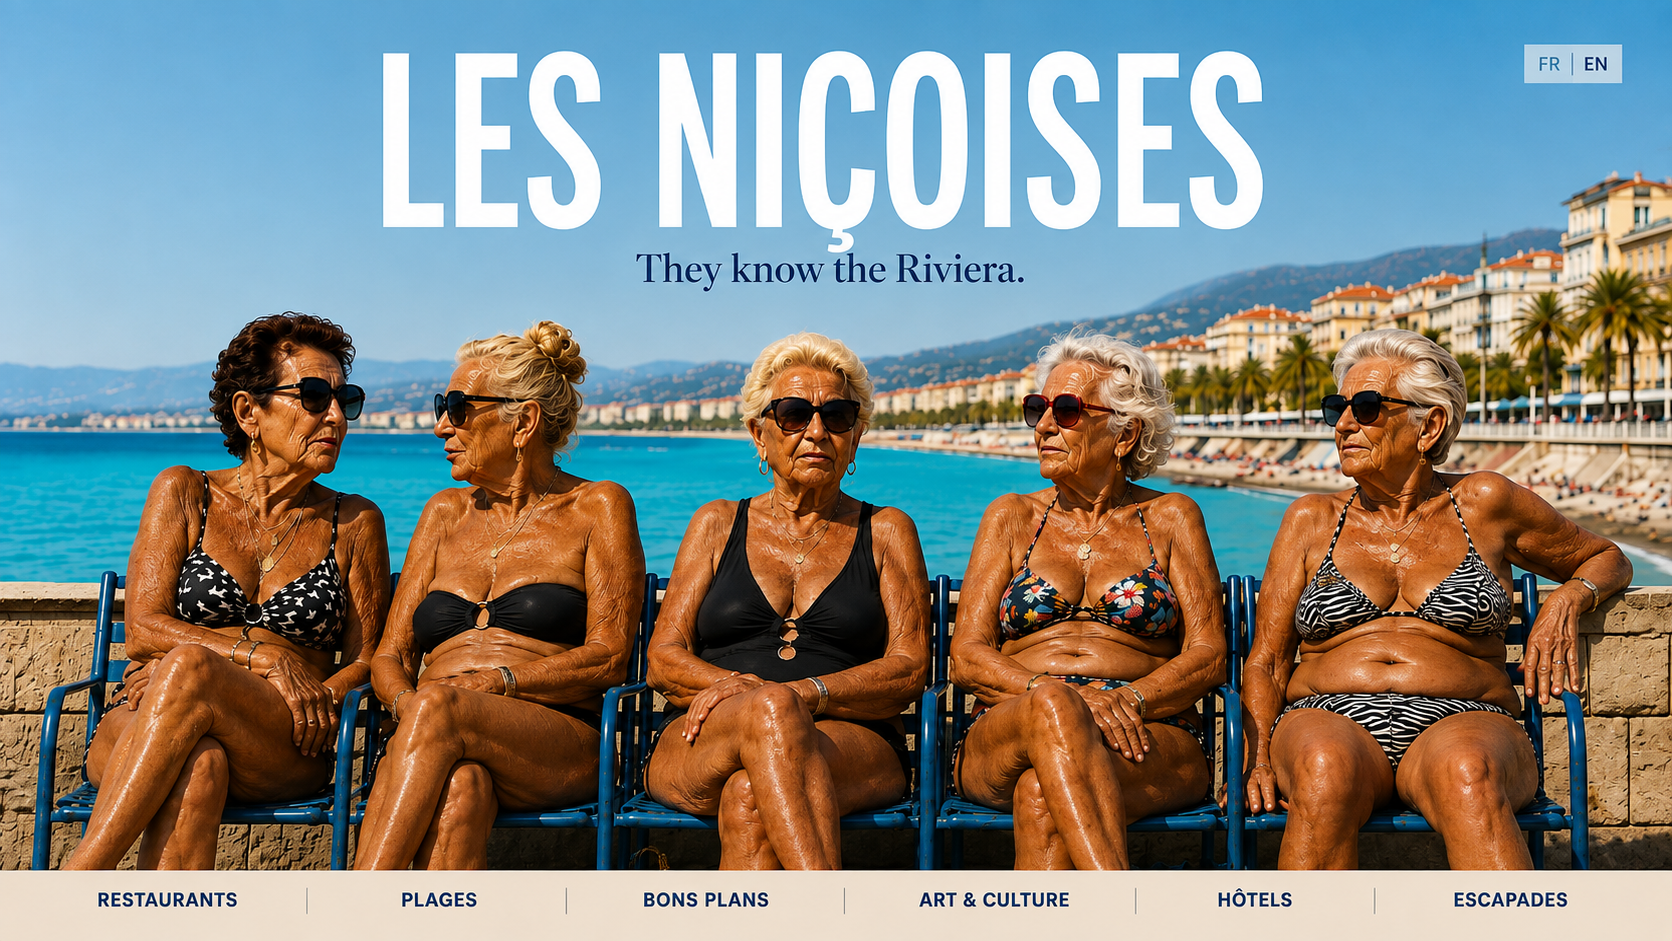
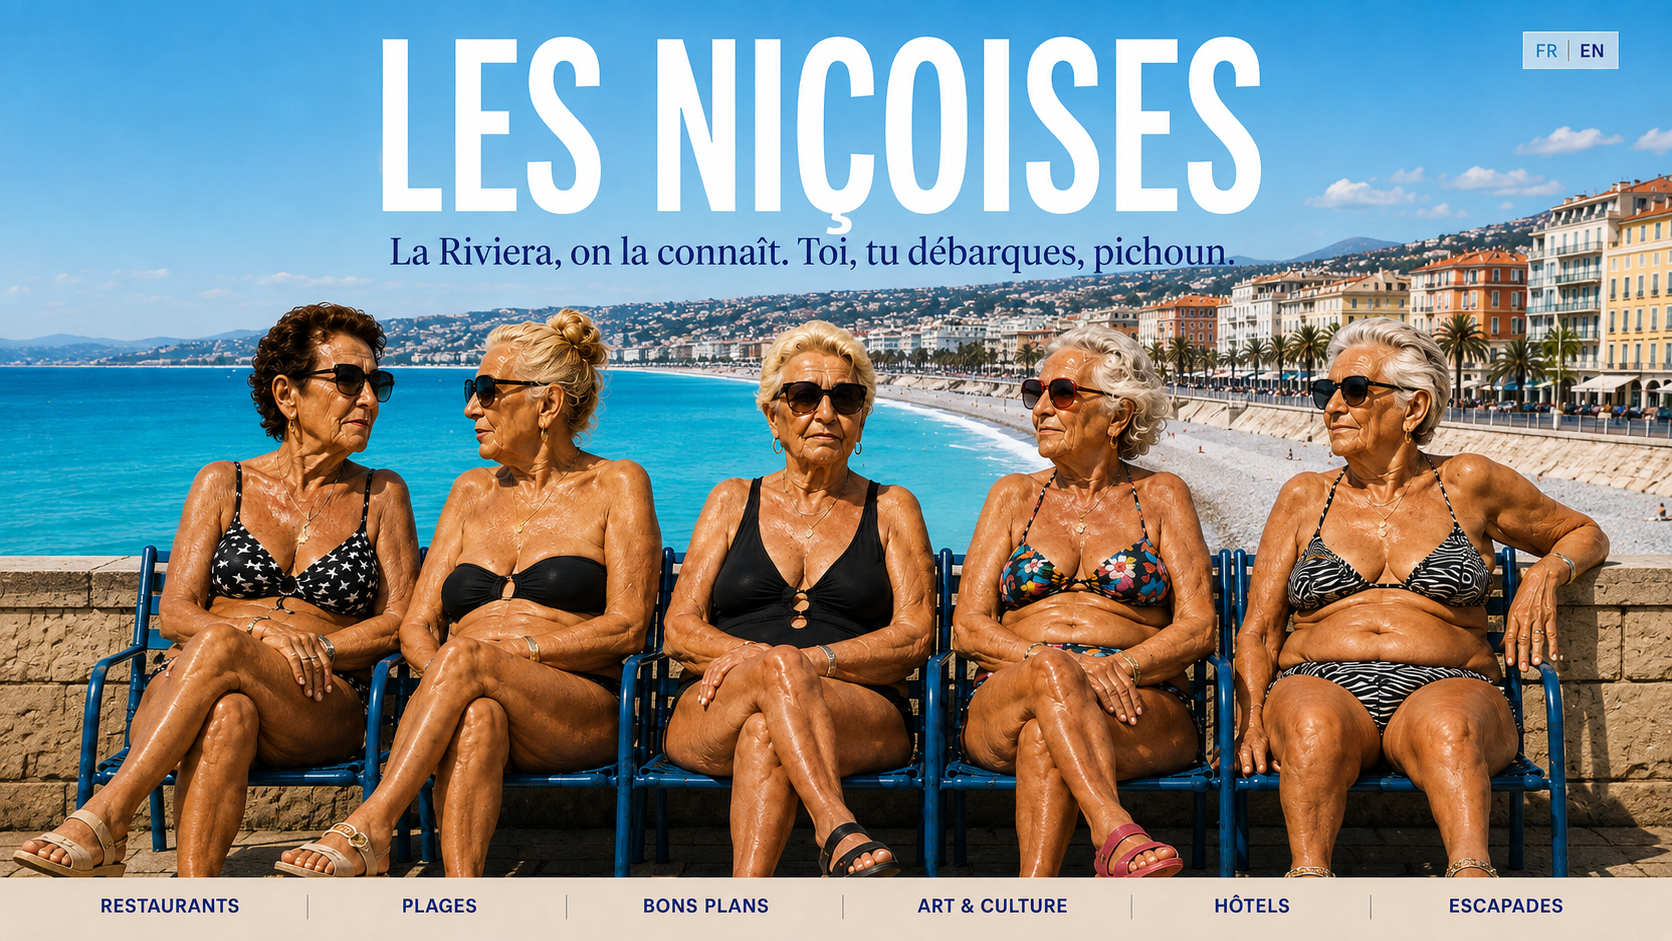
Add files via upload

diff --git a/en/index.html b/en/index.html
@@ -23,15 +23,31 @@ a{color:inherit;text-decoration:none}
 }
 .hero{position:relative;width:100%;overflow:hidden;background:#79cbe8}
 .hero img{display:block;width:100%;height:auto}
-.menu-hotspots{
-  position:absolute;left:0;right:0;bottom:0;height:8.9%;
-  display:grid;grid-template-columns:repeat(6,1fr);z-index:5
+.hero-tagline{
+  position:absolute;left:50%;top:20.4%;transform:translateX(-50%);z-index:7;
+  width:min(73%,1080px);padding:.55% 2.2% .65%;text-align:center;
+  background:linear-gradient(90deg,rgba(84,179,224,0),rgba(84,179,224,.84) 12%,rgba(84,179,224,.84) 88%,rgba(84,179,224,0));
+  -webkit-backdrop-filter:blur(10px);backdrop-filter:blur(10px);
+  color:#fff;font-family:Georgia,'Times New Roman',serif;font-size:clamp(16px,2.15vw,36px);
+  line-height:1.08;font-weight:600;white-space:nowrap;text-shadow:0 1px 8px rgba(0,0,0,.18)
 }
-.menu-hotspots a{display:block}
-.menu-hotspots a:focus-visible{outline:3px solid #132341;outline-offset:-4px}
-.lang-hotspots{position:absolute;right:2.4%;top:4.5%;width:6.9%;height:4.2%;z-index:6;display:grid;grid-template-columns:1fr 1fr}
-.lang-hotspots a{display:block}
-.lang-hotspots a:focus-visible{outline:2px solid #132341;outline-offset:-2px}
+.menu-display{
+  position:absolute;left:0;right:0;bottom:0;height:8.9%;z-index:8;
+  display:grid;grid-template-columns:repeat(6,1fr);align-items:center;
+  background:#e8d7c6;color:#10245a
+}
+.menu-display a{height:100%;display:flex;align-items:center;justify-content:center;position:relative;
+  font-size:clamp(9px,1.05vw,18px);font-weight:800;letter-spacing:.015em;text-transform:uppercase}
+.menu-display a:not(:last-child)::after{content:'';position:absolute;right:0;top:24%;height:52%;width:1px;background:rgba(16,36,90,.34)}
+.menu-display a:focus-visible{outline:3px solid #132341;outline-offset:-4px}
+.lang-display{position:absolute;right:2.55%;top:3.25%;z-index:9;display:flex;align-items:center;gap:.48em;
+  padding:.45em .65em;background:rgba(239,242,238,.82);font-size:clamp(10px,1.15vw,18px);font-weight:600}
+.lang-display a{color:#12213d}.lang-display a.active{color:#1679ad}.lang-display .sep{opacity:.6}
+@media(max-width:760px){
+  .hero-tagline{top:20.8%;width:82%;font-size:clamp(11px,2.45vw,18px);padding:.7% 2%}
+  .menu-display a{font-size:clamp(7px,1.55vw,11px)}
+  .lang-display{right:2.2%;top:3%;font-size:clamp(8px,1.8vw,12px)}
+}
 .intro{max-width:1000px;margin:0 auto;padding:62px 28px 76px;text-align:center}
 .intro p{margin:0 auto 28px;max-width:780px;font-family:Georgia,serif;font-size:22px;line-height:1.55;color:var(--ink)}
 .intro-links{display:flex;justify-content:center;gap:14px;flex-wrap:wrap}
@@ -48,18 +64,15 @@ a{color:inherit;text-decoration:none}
 <body>
 <main>
   <h1 class="visually-hidden">Les Niçoises</h1>
-  <p class="visually-hidden">They know the Riviera.</p>
+  <p class="visually-hidden">We know the Riviera. You’re new, pichoun.</p>
 
   <section class="hero" aria-label="Les Niçoises, Riviera Insiders">
     <img src="/assets/hero-les-nicoises-final.png"
          width="1672" height="941"
          alt="Cinq Niçoises âgées, très bronzées, assises de face sur les chaises bleues de Nice devant la Méditerranée">
-    <nav class="menu-hotspots" aria-label="Rubriques principales">
-      <a href="/en/restaurants/" aria-label="Restaurants"><span class="visually-hidden">Restaurants</span></a><a href="/en/beaches/" aria-label="Beaches"><span class="visually-hidden">Beaches</span></a><a href="/en/good-finds/" aria-label="Good finds"><span class="visually-hidden">Good finds</span></a><a href="/en/culture/" aria-label="Art & Culture"><span class="visually-hidden">Art & Culture</span></a><a href="/en/hotels/" aria-label="Hotels"><span class="visually-hidden">Hotels</span></a><a href="/en/day-trips/" aria-label="Day trips"><span class="visually-hidden">Day trips</span></a>
-    </nav>
-    <div class="lang-hotspots" aria-label="Langues">
-      <a class="lang-fr" href="/" aria-label="Français"></a><a class="lang-en" href="/en/" aria-label="English"></a>
-    </div>
+    <div class="hero-tagline">We know the Riviera. You’re new, pichoun.</div>
+    <nav class="menu-display" aria-label="Main sections"><a href="/en/restaurants/">Restaurants</a><a href="/en/beaches/">Beaches</a><a href="/en/good-finds/">Good finds</a><a href="/en/culture/">Art & Culture</a><a href="/en/hotels/">Hotels</a><a href="/en/day-trips/">Day trips</a></nav>
+    <div class="lang-display" aria-label="Languages"><a href="/" class="">FR</a><span class="sep">|</span><a href="/en/" class="active">EN</a></div>
   </section>
 
   <section class="intro">

diff --git a/index.html b/index.html
@@ -23,15 +23,31 @@ a{color:inherit;text-decoration:none}
 }
 .hero{position:relative;width:100%;overflow:hidden;background:#79cbe8}
 .hero img{display:block;width:100%;height:auto}
-.menu-hotspots{
-  position:absolute;left:0;right:0;bottom:0;height:8.9%;
-  display:grid;grid-template-columns:repeat(6,1fr);z-index:5
+.hero-tagline{
+  position:absolute;left:50%;top:20.4%;transform:translateX(-50%);z-index:7;
+  width:min(73%,1080px);padding:.55% 2.2% .65%;text-align:center;
+  background:linear-gradient(90deg,rgba(84,179,224,0),rgba(84,179,224,.84) 12%,rgba(84,179,224,.84) 88%,rgba(84,179,224,0));
+  -webkit-backdrop-filter:blur(10px);backdrop-filter:blur(10px);
+  color:#fff;font-family:Georgia,'Times New Roman',serif;font-size:clamp(16px,2.15vw,36px);
+  line-height:1.08;font-weight:600;white-space:nowrap;text-shadow:0 1px 8px rgba(0,0,0,.18)
 }
-.menu-hotspots a{display:block}
-.menu-hotspots a:focus-visible{outline:3px solid #132341;outline-offset:-4px}
-.lang-hotspots{position:absolute;right:2.4%;top:4.5%;width:6.9%;height:4.2%;z-index:6;display:grid;grid-template-columns:1fr 1fr}
-.lang-hotspots a{display:block}
-.lang-hotspots a:focus-visible{outline:2px solid #132341;outline-offset:-2px}
+.menu-display{
+  position:absolute;left:0;right:0;bottom:0;height:8.9%;z-index:8;
+  display:grid;grid-template-columns:repeat(6,1fr);align-items:center;
+  background:#e8d7c6;color:#10245a
+}
+.menu-display a{height:100%;display:flex;align-items:center;justify-content:center;position:relative;
+  font-size:clamp(9px,1.05vw,18px);font-weight:800;letter-spacing:.015em;text-transform:uppercase}
+.menu-display a:not(:last-child)::after{content:'';position:absolute;right:0;top:24%;height:52%;width:1px;background:rgba(16,36,90,.34)}
+.menu-display a:focus-visible{outline:3px solid #132341;outline-offset:-4px}
+.lang-display{position:absolute;right:2.55%;top:3.25%;z-index:9;display:flex;align-items:center;gap:.48em;
+  padding:.45em .65em;background:rgba(239,242,238,.82);font-size:clamp(10px,1.15vw,18px);font-weight:600}
+.lang-display a{color:#12213d}.lang-display a.active{color:#1679ad}.lang-display .sep{opacity:.6}
+@media(max-width:760px){
+  .hero-tagline{top:20.8%;width:82%;font-size:clamp(11px,2.45vw,18px);padding:.7% 2%}
+  .menu-display a{font-size:clamp(7px,1.55vw,11px)}
+  .lang-display{right:2.2%;top:3%;font-size:clamp(8px,1.8vw,12px)}
+}
 .intro{max-width:1000px;margin:0 auto;padding:62px 28px 76px;text-align:center}
 .intro p{margin:0 auto 28px;max-width:780px;font-family:Georgia,serif;font-size:22px;line-height:1.55;color:var(--ink)}
 .intro-links{display:flex;justify-content:center;gap:14px;flex-wrap:wrap}
@@ -48,18 +64,15 @@ a{color:inherit;text-decoration:none}
 <body>
 <main>
   <h1 class="visually-hidden">Les Niçoises</h1>
-  <p class="visually-hidden">They know the Riviera.</p>
+  <p class="visually-hidden">La Riviera, on la connaît. Toi, tu débarques, pichoun.</p>
 
   <section class="hero" aria-label="Les Niçoises, Riviera Insiders">
     <img src="/assets/hero-les-nicoises-final.png"
          width="1672" height="941"
          alt="Cinq Niçoises âgées, très bronzées, assises de face sur les chaises bleues de Nice devant la Méditerranée">
-    <nav class="menu-hotspots" aria-label="Rubriques principales">
-      <a href="/restaurants/" aria-label="Restaurants"><span class="visually-hidden">Restaurants</span></a><a href="/plages/" aria-label="Plages"><span class="visually-hidden">Plages</span></a><a href="/bons-plans/" aria-label="Bons plans"><span class="visually-hidden">Bons plans</span></a><a href="/culture/" aria-label="Art & Culture"><span class="visually-hidden">Art & Culture</span></a><a href="/hotels/" aria-label="Hôtels"><span class="visually-hidden">Hôtels</span></a><a href="/escapades/" aria-label="Escapades"><span class="visually-hidden">Escapades</span></a>
-    </nav>
-    <div class="lang-hotspots" aria-label="Langues">
-      <a class="lang-fr" href="/" aria-label="Français"></a><a class="lang-en" href="/en/" aria-label="English"></a>
-    </div>
+    <div class="hero-tagline">La Riviera, on la connaît. Toi, tu débarques, pichoun.</div>
+    <nav class="menu-display" aria-label="Rubriques principales"><a href="/restaurants/">Restaurants</a><a href="/plages/">Plages</a><a href="/bons-plans/">Bons plans</a><a href="/culture/">Art & Culture</a><a href="/hotels/">Hôtels</a><a href="/escapades/">Escapades</a></nav>
+    <div class="lang-display" aria-label="Languages"><a href="/" class="active">FR</a><span class="sep">|</span><a href="/en/" class="">EN</a></div>
   </section>
 
   <section class="intro">
